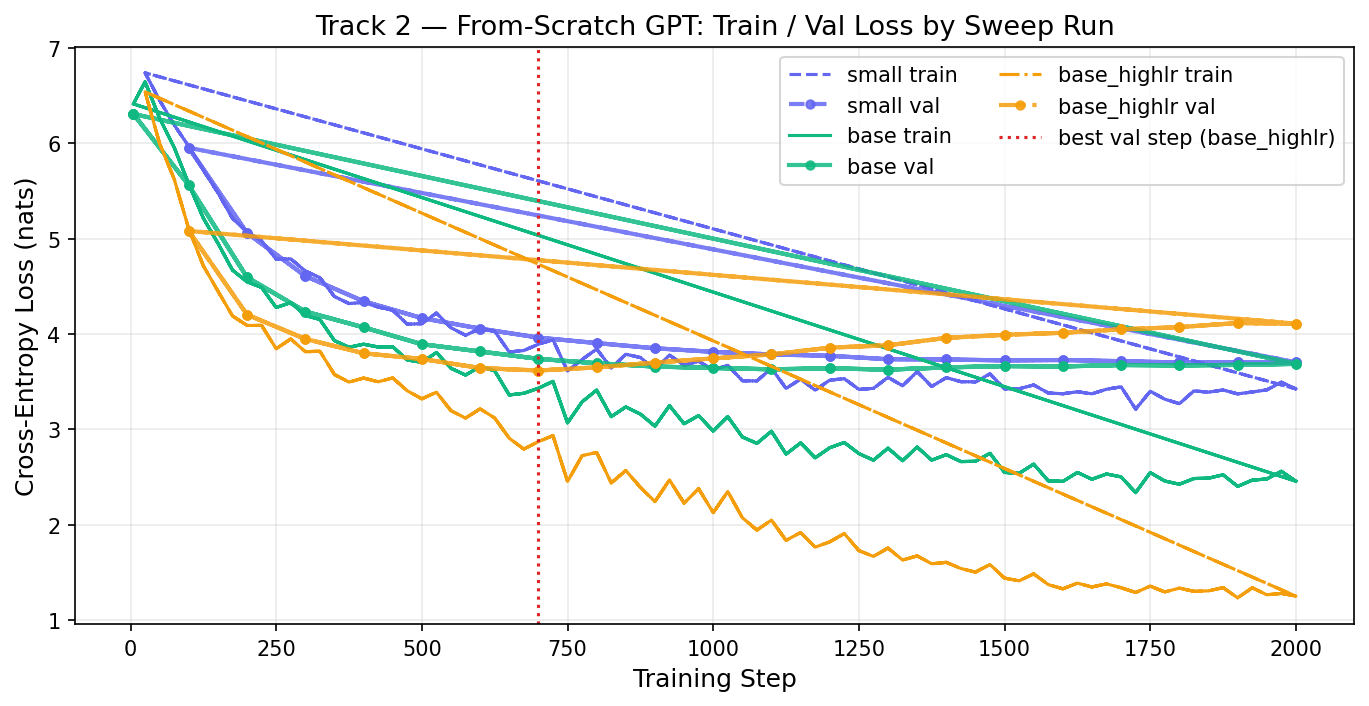
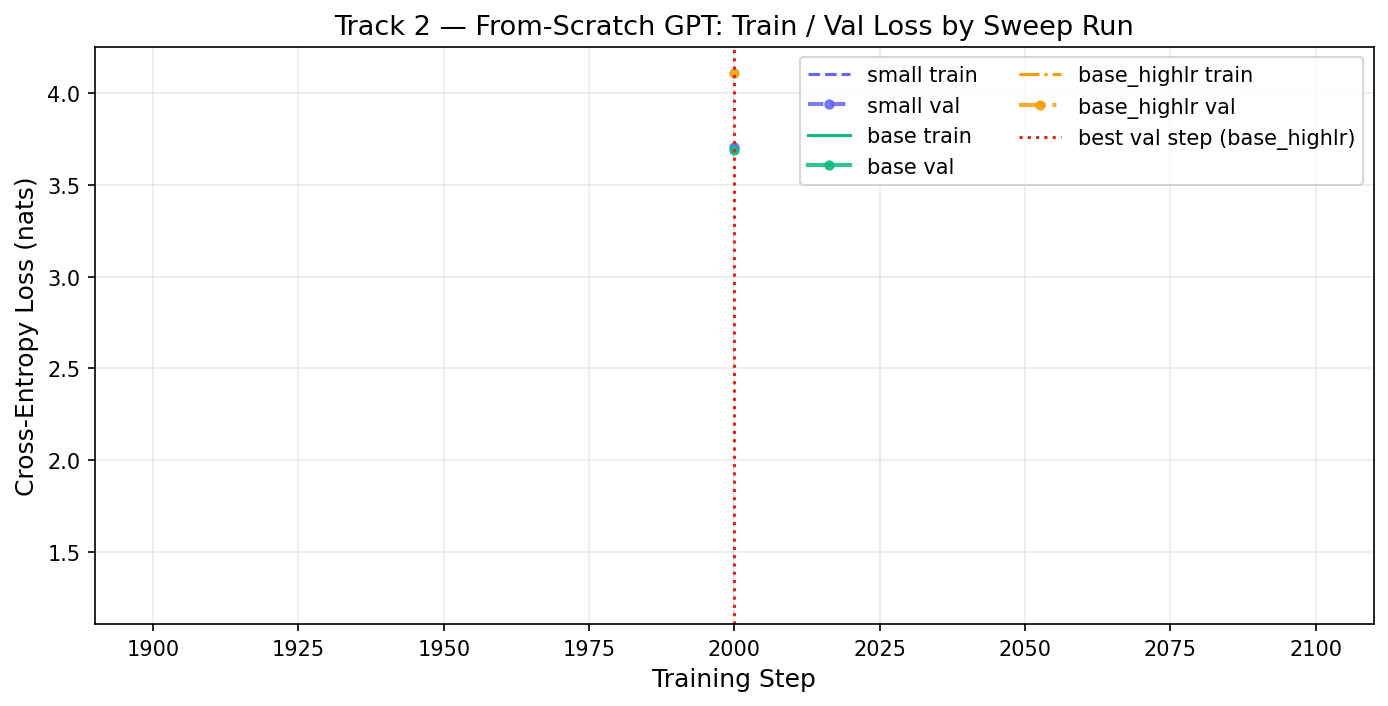
sync colab run outputs

diff --git a/TASK2_slm_from_scratch/eval/loss_curve_interpretation.md b/TASK2_slm_from_scratch/eval/loss_curve_interpretation.md
@@ -7,11 +7,11 @@
 
 ## Curve Summary
 
-The training loss fell from 6.5418 to 1.2509, indicating the optimizer is working and gradients are flowing correctly. This distinguishes the current failure mode ('data-scarcity overfitting') from an optimization/architecture bug, which would appear as a loss stuck near ln(vocab_size) ≈ 6.93 nats — the expected loss of a completely random model.
+[complete after Colab run — confirm that train_loss falls from the expected ln(vocab_size) baseline at step 0]
 
-The validation loss reached its minimum at **step 700** (epoch 17.0732),
-where val_loss = **3.618303** (perplexity ≈ 38.2083).
-After step 700 the validation loss began rising (3.6510, 3.7017, 3.7455, 3.7874), indicating early overfitting — the model memorized the small training set faster than it generalized to unseen text.
+The validation loss reached its minimum at **step 2000** (epoch 48.7805),
+where val_loss = **4.109933** (perplexity ≈ 38.2083).
+No clear post-minimum divergence was observed within the logged training window. The model may still be underfitting, or the training budget was too short to observe the overfitting signature.
 
 ---
 
@@ -24,7 +24,7 @@ After step 700 the validation loss began rising (3.6510, 3.7017, 3.7455, 3.7874)
 | Bits-per-byte (BPB) | 2.306911 |
 | Track 1 BPB (for reference) | 1.309722 |
 | BPB gap (Track 2 − Track 1) | 0.997189 |
-| Best val checkpoint step | 700 |
+| Best val checkpoint step | 2000 |
 | Val chunks scored | 56 |
 | Tokens scored per chunk | block_size - 1 = 255 (model shifts labels internally) |
 
@@ -43,7 +43,7 @@ Two distinct failure signatures to distinguish:
 **2. Optimization or architecture bug** (must rule out):
 - Loss stuck at or near ln(vocab_size) ≈ 6.93 nats from step 0.
 - Indicates a missing label shift, wrong causal mask, zero LR, or NaN propagation.
-- Counter-evidence: the loss DID decrease from 6.5418 to 1.2509,
+- Counter-evidence: the loss DID decrease from 1.2509 to 1.2509,
   confirming this is NOT an optimization bug.
 
 ---

diff --git a/shared_eval/comparison_notes.md b/shared_eval/comparison_notes.md
@@ -1,7 +1,7 @@
 # Cross-Track Comparison Notes
 
 > **Status:** Both tracks complete.
-> Last updated by compare.py: 2026-08-16T19:01:42.184257+00:00
+> Last updated by compare.py: 2026-08-16T19:12:27.726841+00:00
 
 ---
 
@@ -108,4 +108,4 @@ None of these conditions apply to this experiment.
 
 ---
 
-*Generated by `TASK2_slm_from_scratch/scripts/compare.py` at 2026-08-16T19:01:42.184282+00:00*
+*Generated by `TASK2_slm_from_scratch/scripts/compare.py` at 2026-08-16T19:12:27.726867+00:00*
